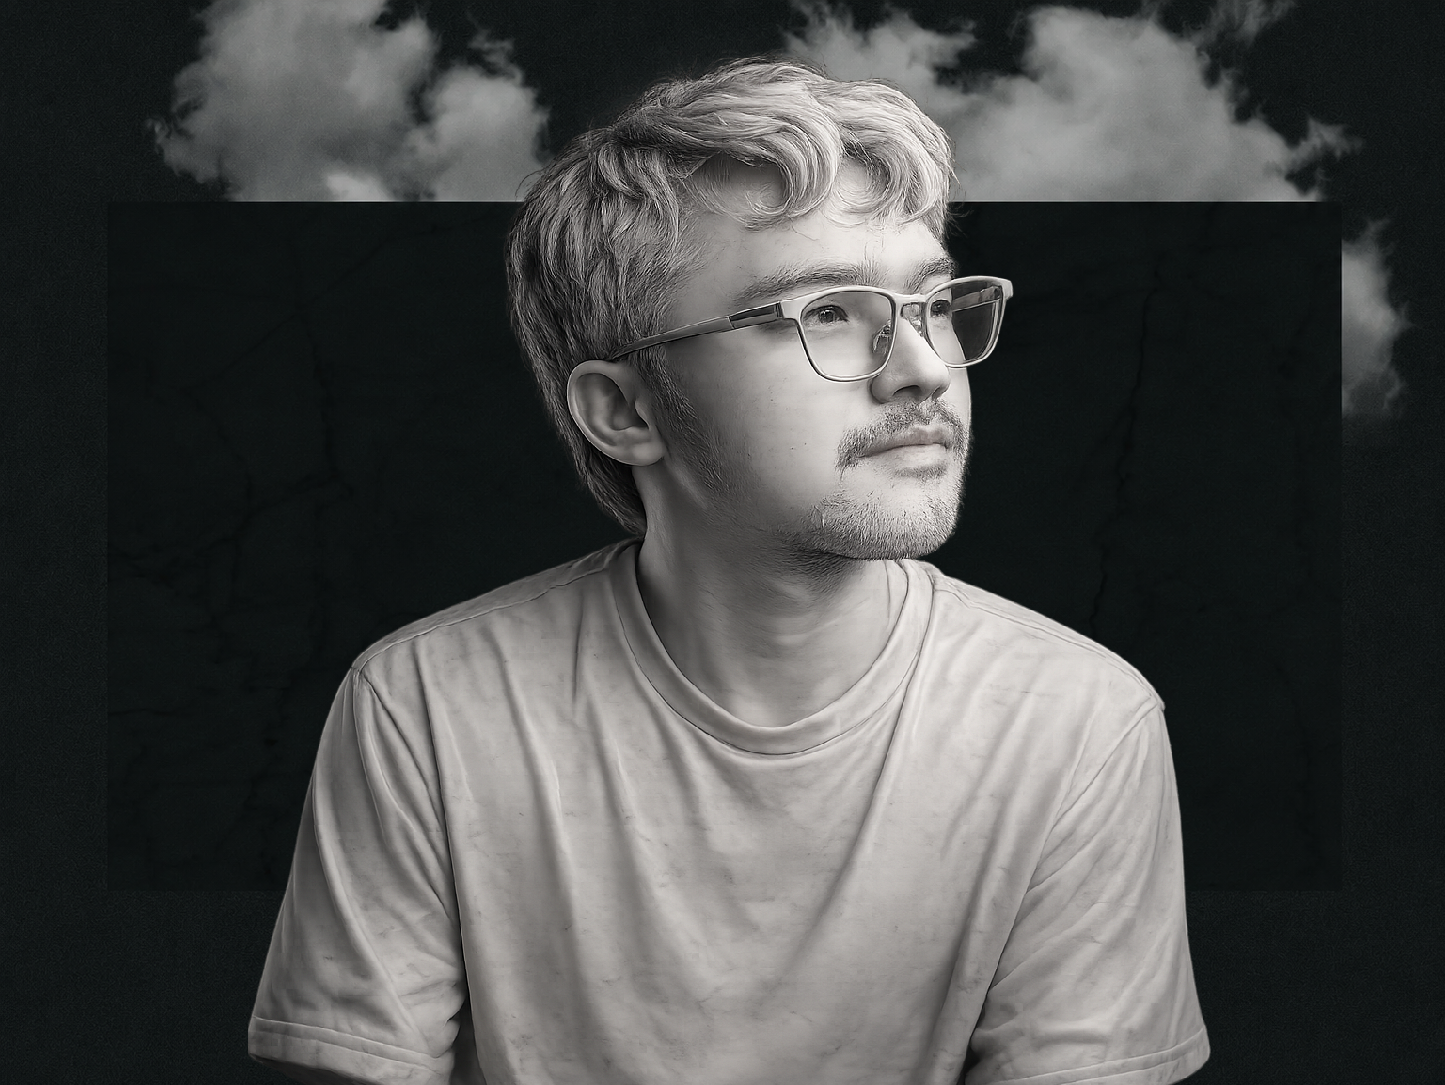
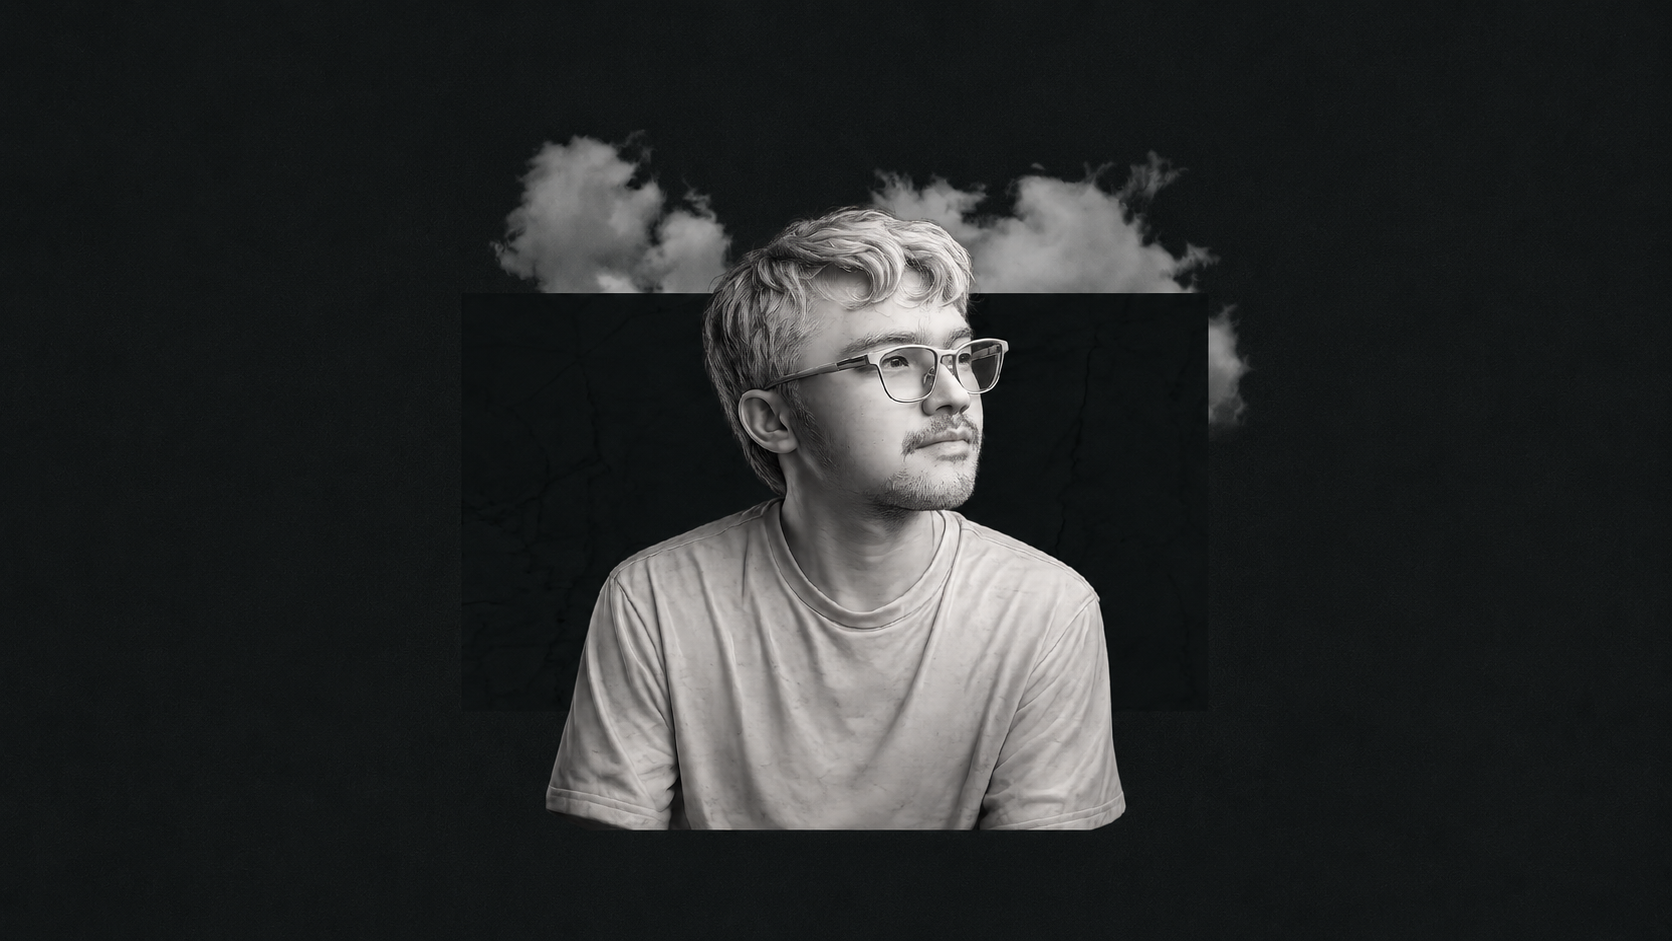
Update About background to new BG-about.png, cover fit

diff --git a/src/About.jsx b/src/About.jsx
@@ -5,7 +5,7 @@ export default function About() {
     <ShatterLoader>
       <div style={{
         width: '100%', height: '100%',
-        background: '#000 url("/BG-about.png") center top/100% auto no-repeat',
+        background: '#000 url("/BG-about.png") center center/cover no-repeat',
       }} />
     </ShatterLoader>
   );
